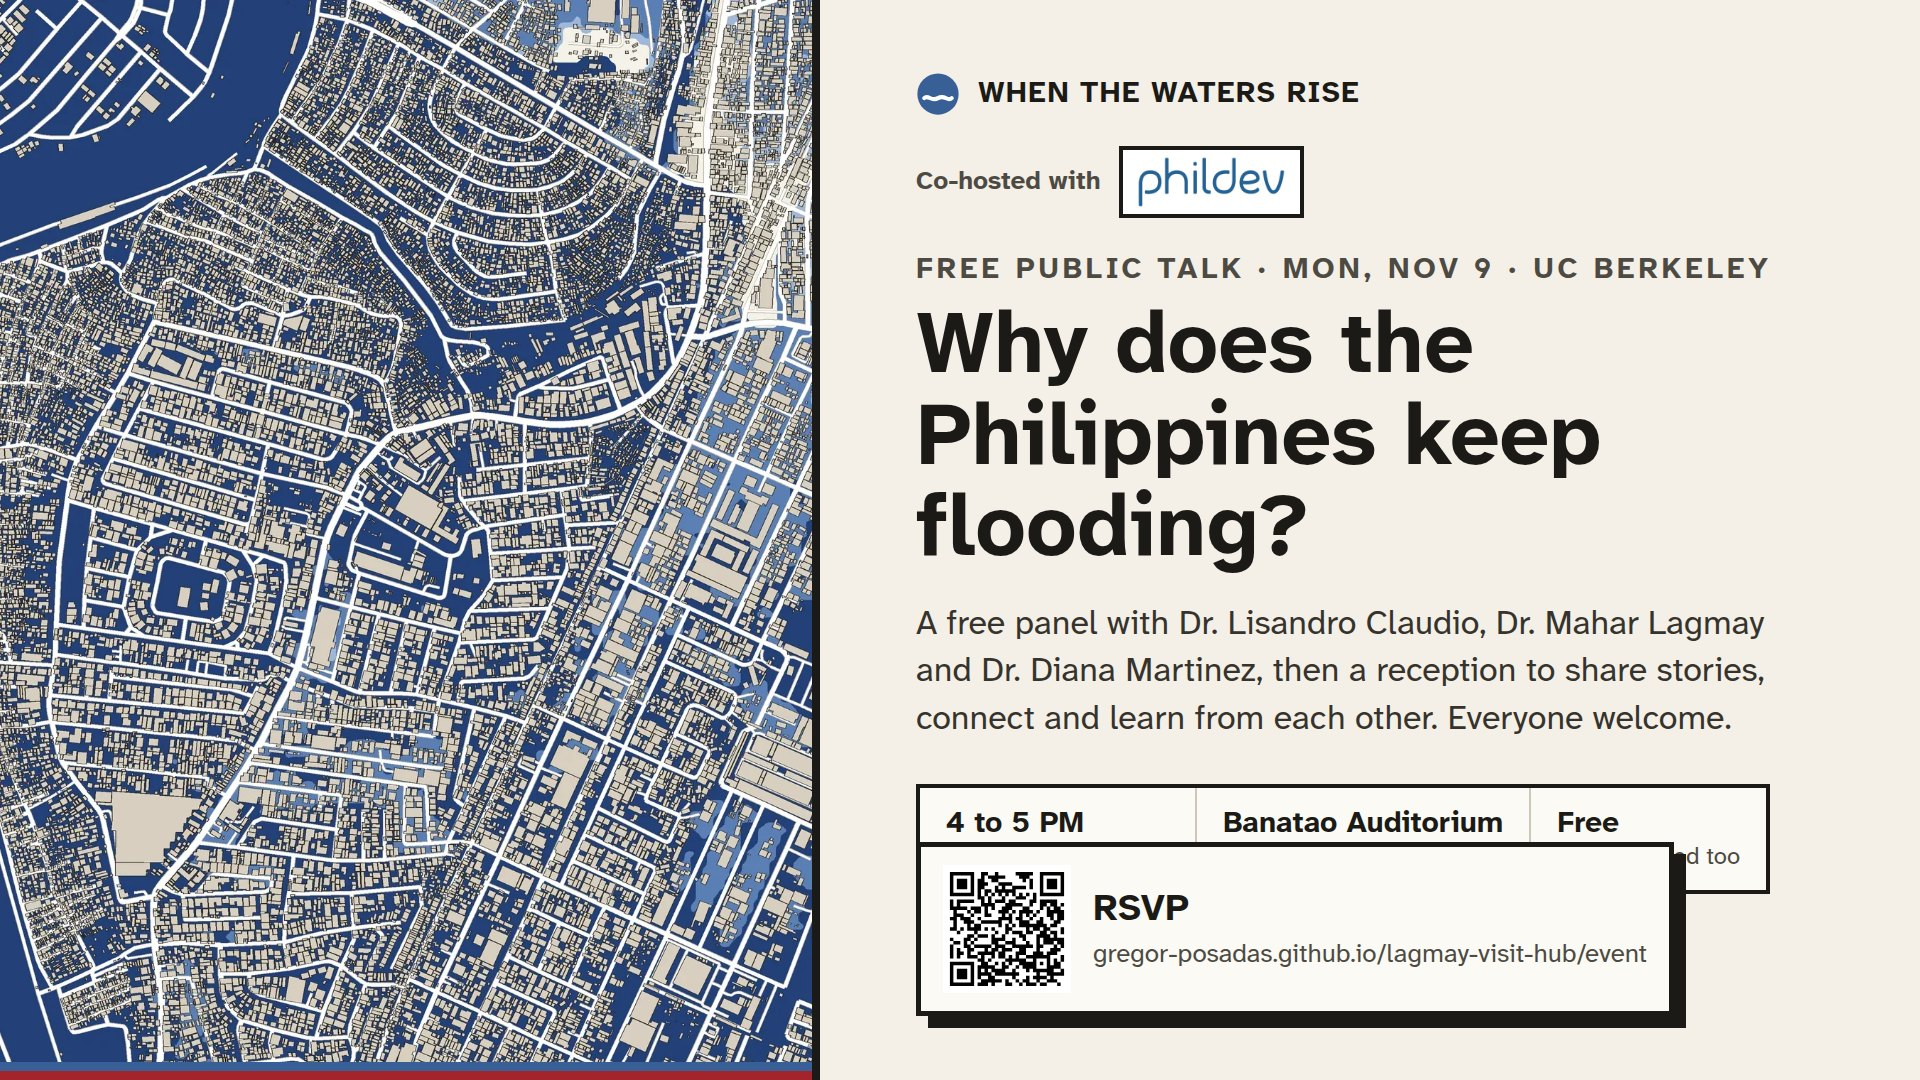
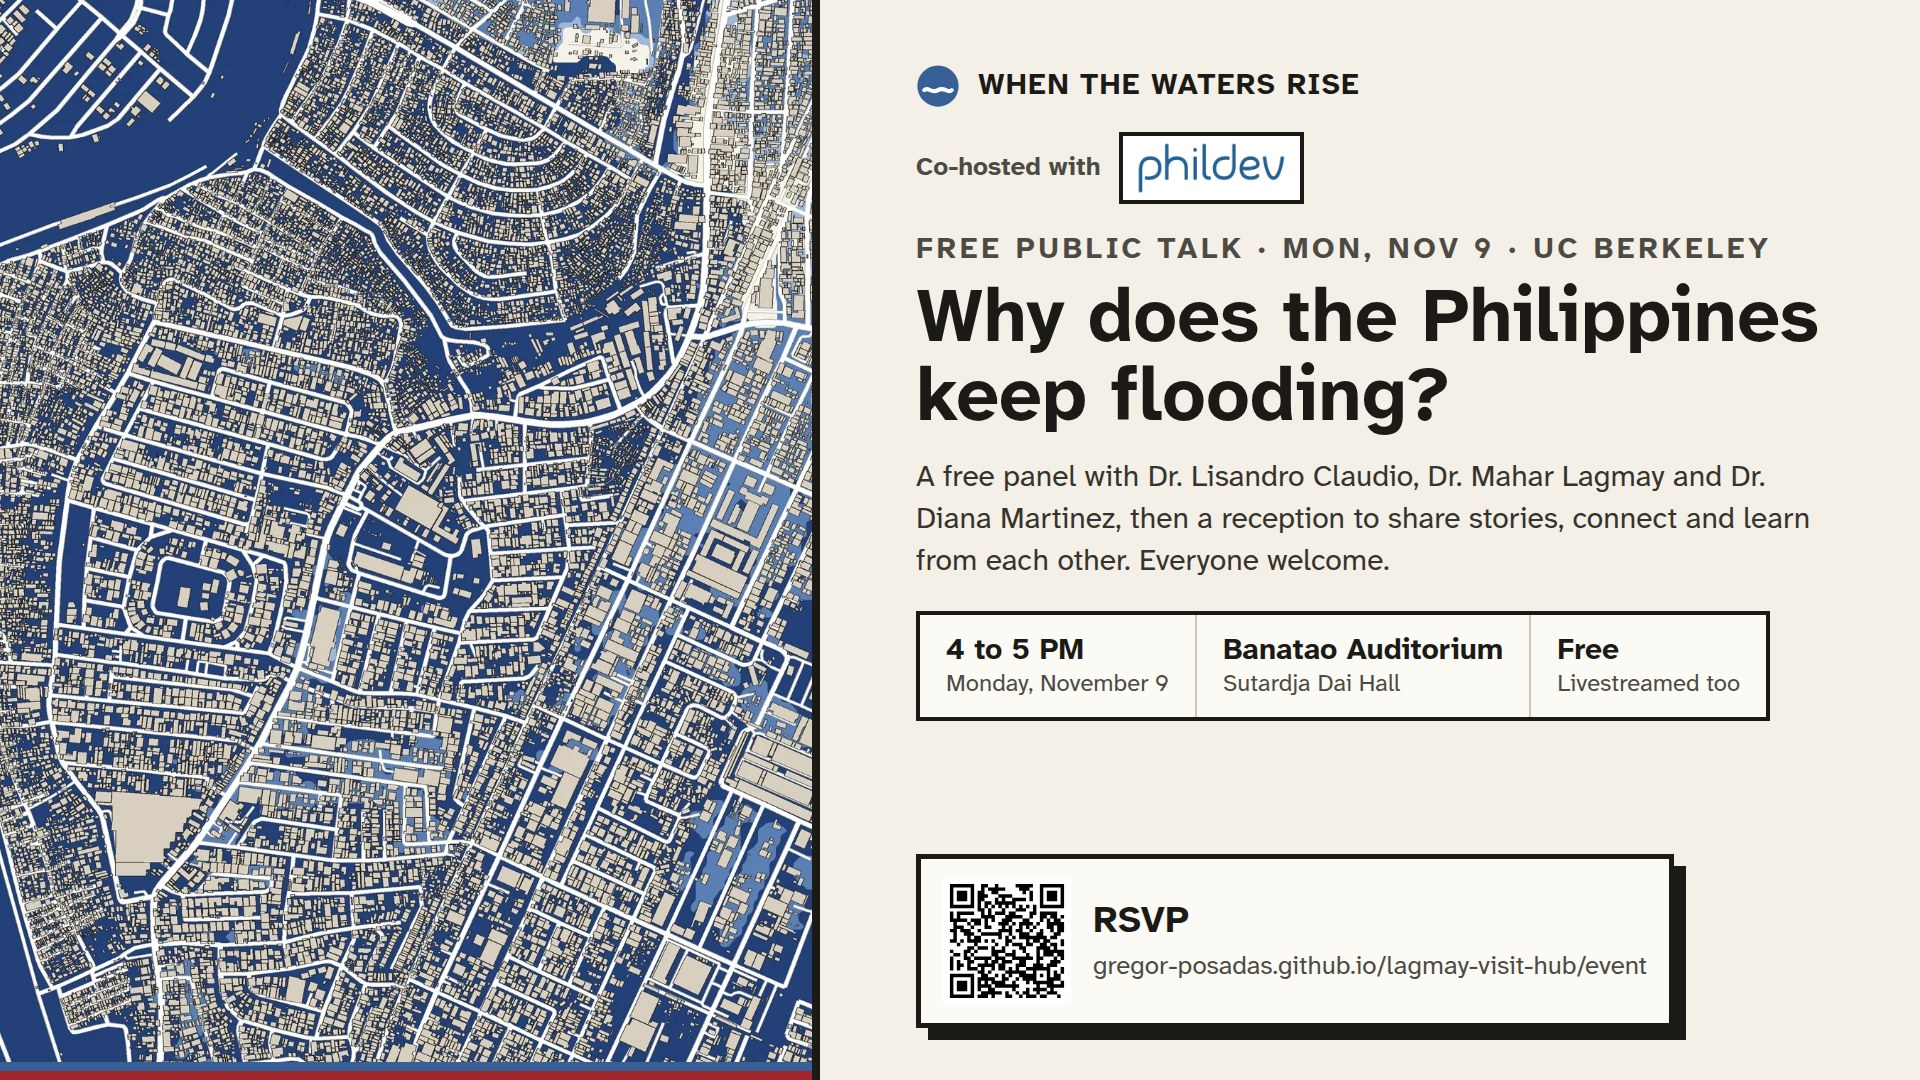
Wide card: keep the RSVP box from covering the time/place row
Claude-Session: https://claude.ai/code/session_015T1wj811kShnpGQCCcZ9Q9

Changed region(s): [[0.4688, 0.1222, 0.9688, 0.6722], [0.4688, 0.7028, 0.9062, 0.9778], [0.4688, 0.0611, 0.7188, 0.1222]]

diff --git a/tools/wide_card.js b/tools/wide_card.js
@@ -14,20 +14,20 @@ const OUT = process.argv[2] || "wide-1920x1080.png";
 body { width: 1920px; height: 1080px; background: #f4f0e8; color: #1b1a17; font-family: A, sans-serif; display: grid; grid-template-columns: 820px 1fr; overflow: hidden; }
 .pic { background: url(${B}event/data/maps/town-metro-manila.webp) 30% center / cover; border-right: 8px solid #1b1a17; position: relative; }
 .pic::after { content: ""; position: absolute; left: 0; right: 0; bottom: 0; height: 18px; background: linear-gradient(#385F96 50%, #A3242A 50%); }
-.txt { padding: 72px 96px 0 96px; position: relative; }
+.txt { padding: 64px 96px 52px 96px; display: flex; flex-direction: column; }
 .top { display: flex; align-items: center; justify-content: space-between; gap: 24px; }
 .brand { display: flex; align-items: center; gap: 18px; font-size: 30px; font-weight: 700; letter-spacing: .04em; text-transform: uppercase; }
-.k { margin-top: 34px; font-size: 30px; font-weight: 700; letter-spacing: .12em; text-transform: uppercase; color: #4d4a43; }
-h1 { font-size: 88px; line-height: 1.04; margin-top: 14px; }
-.b { font-size: 34px; line-height: 1.4; margin-top: 24px; color: #36332d; max-width: 900px; }
-.facts { display: flex; gap: 0; margin-top: 40px; border: 4px solid #1b1a17; background: #fcfaf5; width: fit-content; }
+.k { margin-top: 28px; font-size: 30px; font-weight: 700; letter-spacing: .12em; text-transform: uppercase; color: #4d4a43; }
+h1 { font-size: 76px; line-height: 1.04; margin-top: 12px; }
+.b { font-size: 30px; line-height: 1.4; margin-top: 18px; color: #36332d; max-width: 900px; }
+.facts { flex: none; display: flex; gap: 0; margin-top: 28px; border: 4px solid #1b1a17; background: #fcfaf5; width: fit-content; }
 .facts div { padding: 18px 26px; border-right: 2px solid #cfc8b8; } .facts div:last-child { border-right: 0; }
 .facts b { display: block; font-size: 30px; } .facts span { font-size: 24px; color: #4d4a43; }
-.foot { position: absolute; left: 96px; right: 96px; bottom: 64px; display: flex; align-items: flex-end; justify-content: space-between; gap: 30px; }
+.foot { flex: none; margin-top: auto; padding-top: 24px; display: flex; align-items: flex-end; justify-content: space-between; gap: 30px; }
 .cta { border: 5px solid #1b1a17; box-shadow: 12px 12px 0 #1b1a17; background: #fcfaf5; padding: 18px 22px; display: flex; align-items: center; gap: 22px; }
 .cta img { width: 128px; height: 128px; background: #fff; }
 .cta b { font-size: 38px; display: block; } .cta span { font-size: 26px; color: #4d4a43; display: block; margin-top: 6px; white-space: nowrap; }
-.co { margin-top: 30px; display: flex; align-items: center; gap: 18px; white-space: nowrap; font-size: 26px; font-weight: 700; color: #4d4a43; }
+.co { margin-top: 24px; display: flex; align-items: center; gap: 18px; white-space: nowrap; font-size: 26px; font-weight: 700; color: #4d4a43; }
 .co img { height: 72px; background: #fff; border: 4px solid #1b1a17; padding: 6px 14px; }
 </style></head><body><div class="pic"></div><div class="txt">
 <div class="top"><p class="brand"><svg width="44" height="44" viewBox="0 0 32 32"><circle cx="16" cy="16" r="15" fill="#385F96"/><path d="M6 19c3-3 5 3 10 0s7 3 10 0" stroke="#fff" stroke-width="3" fill="none" stroke-linecap="round"/></svg>When the Waters Rise</p></div>
